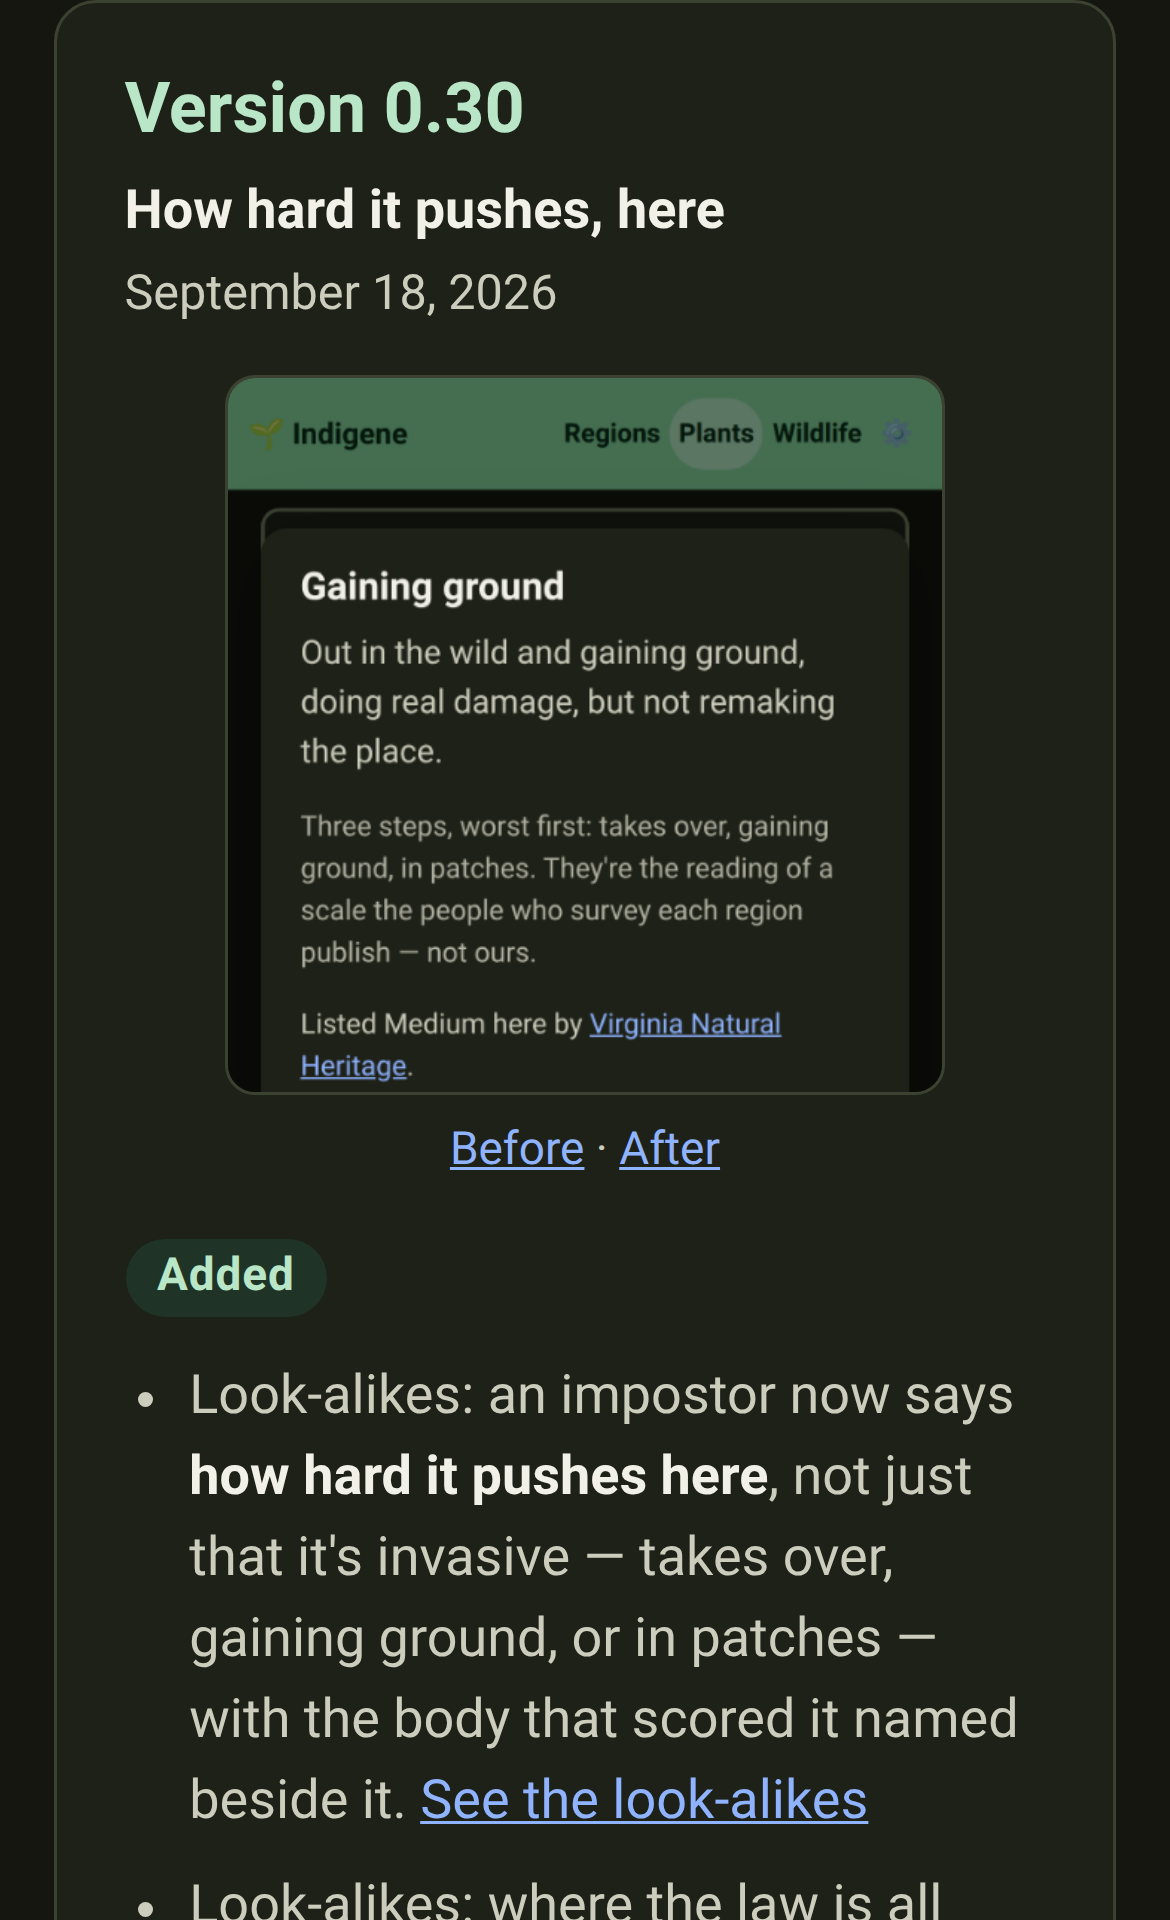
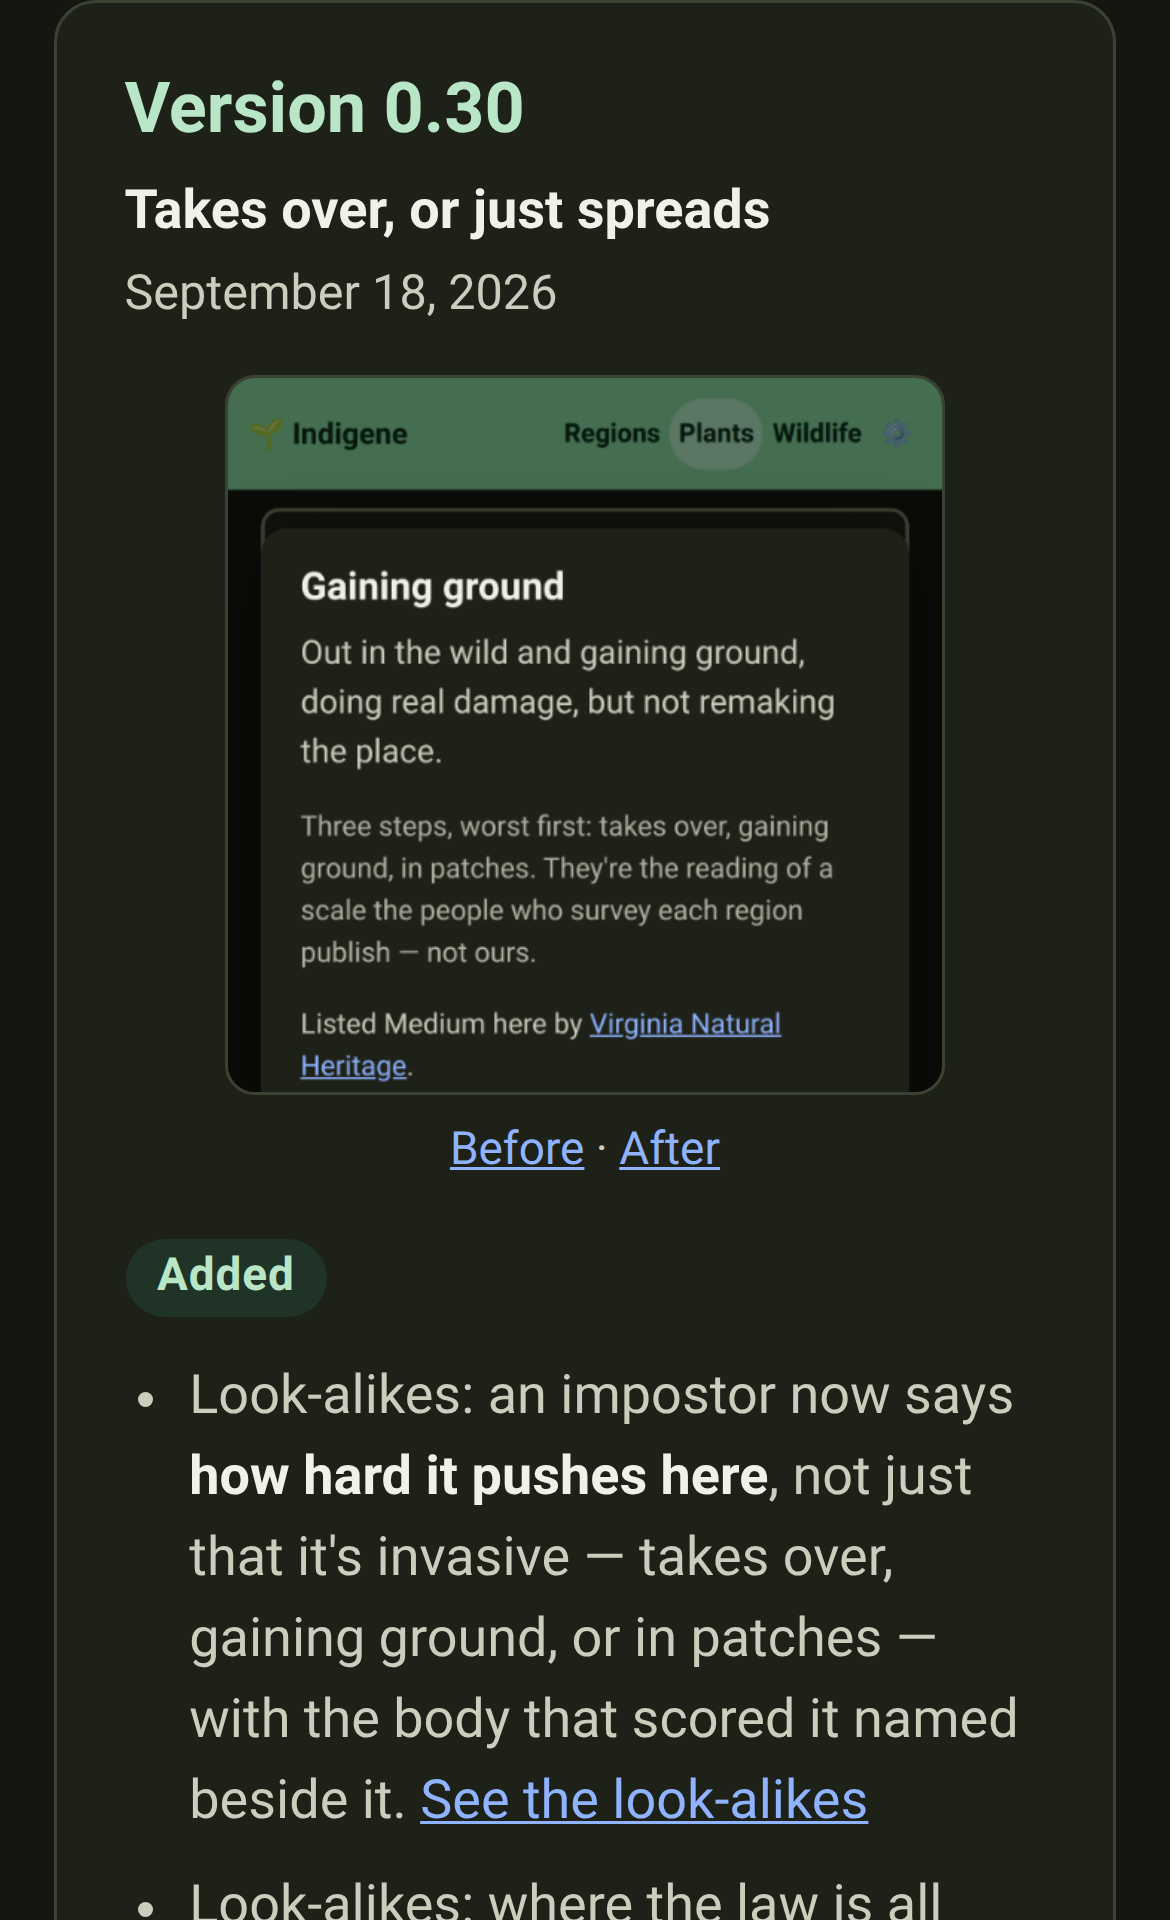
Release names: short, concrete, and never leaning on "it"
Two rules into CLAUDE.md, and the two names of mine that broke them.

A title has no next sentence, so a pronoun in one asks the reader to
hold a blank that never gets filled. That binds every heading, card
title and button label, not just a release name — it goes in the voice
section at the top of the file.

The release-name rule is its own: three or four words, concrete, no
pronoun, and short enough to repeat a week later. The evidence is in
our own history. The names anyone could quote are the short ones —
*Stand in a spot*, *Meet the wildlife*, *One plant, one name*,
*Indigene speaks French*. The ones nobody can are the long "X, and Y"
pairs that hand the second half to a pronoun: *What's new, and where it
would go*, *A spot it remembers, and links that travel*.

Mine failed both tests at once:

  How hard it pushes, here                                → Takes over, or just spreads
  California's central coast, and a native for every ...  → A native for every staple

The new 0.30 name is the product's own vocabulary — the three rungs of
the ladder are "takes over", "gaining ground" and "in patches", so the
release is named out of the thing it shipped. 0.31, *A census of the
gardens*, already passed and is unchanged.

Older published names stay as they are. They are what readers already
saw on the What's-new page, and rewriting them would change a record
rather than fix one; the rule applies from here.
[…]

Changed region(s): [[0.0923, 0.0938, 0.6769, 0.125]]

diff --git a/CLAUDE.md b/CLAUDE.md
@@ -39,6 +39,10 @@ plant and animal prose, empty states, error messages, and release notes.
   region's box: 6,819 (GBIF)". Same for file paths, function names, workflow
   names and internal jargon. The script name belongs in the commit message, the
   code comment, or an `Internal:` changelog bullet.
+- **A title names the thing; a pronoun names nothing.** "How hard it pushes"
+  asks the reader to hold a blank until the next sentence fills it in — and a
+  title has no next sentence. Say what *it* was. This binds every heading, card
+  title, button label and release name in the app.
 - **Every word is also a translation.** French is written by hand from this
   English (`src/locales/`, `src/locales/prose.fr/`). A paragraph we didn't
   need is a paragraph somebody translates, reviews and maintains forever.
@@ -214,6 +218,15 @@ rules:
   `version` to match, add the compare link at the bottom, and start a fresh
   `Unreleased`. No fixed cadence, no conventional commits — the version number
   just increments when a feature ships.
+- **Name a release so somebody could repeat it a week later.** Three or four
+  words, concrete, no pronoun. The ones that stuck are the short ones — *Stand
+  in a spot*, *Meet the wildlife*, *One plant, one name*, *Indigene speaks
+  French*, *Grow this instead*. The ones nobody can quote are the long "X, and
+  Y" pairs that hand the second half to a pronoun: *What's new, and where it
+  would go*, *A spot it remembers, and links that travel*. Two tests, and a
+  name has to pass both: if it needs "it", the thing *it* stands for is the
+  name; and if it runs past about five words, it is a summary, and the bullets
+  underneath are already doing that job.
 
 Three more conventions the compiler understands:
 

diff --git a/CHANGELOG.md b/CHANGELOG.md
@@ -112,7 +112,7 @@ subtitle on the What's new page.
 
 ## [0.30] - 2026-09-18
 
-**How hard it pushes, here**
+**Takes over, or just spreads**
 
 [![Tapping the Gaining ground badge explains what it means](docs/screenshots/pr-151/thumb.png)](docs/screenshots/pr-151/explain-dark.png)
 [Before](docs/screenshots/pr-151/index-before-dark.png) · [After](docs/screenshots/pr-151/index-after-dark.png)
@@ -143,7 +143,7 @@ subtitle on the What's new page.
 
 ## [0.29] - 2026-09-18
 
-**California's central coast, and a native for every garden staple**
+**A native for every staple**
 
 [![The Central California Coast region, drawn from Sonoma to Big Sur](docs/screenshots/pr-149/thumb.png)](docs/screenshots/pr-149/regions-after-dark.png)
 [Before](docs/screenshots/pr-149/regions-before-dark.png) · [After](docs/screenshots/pr-149/regions-after-dark.png)
